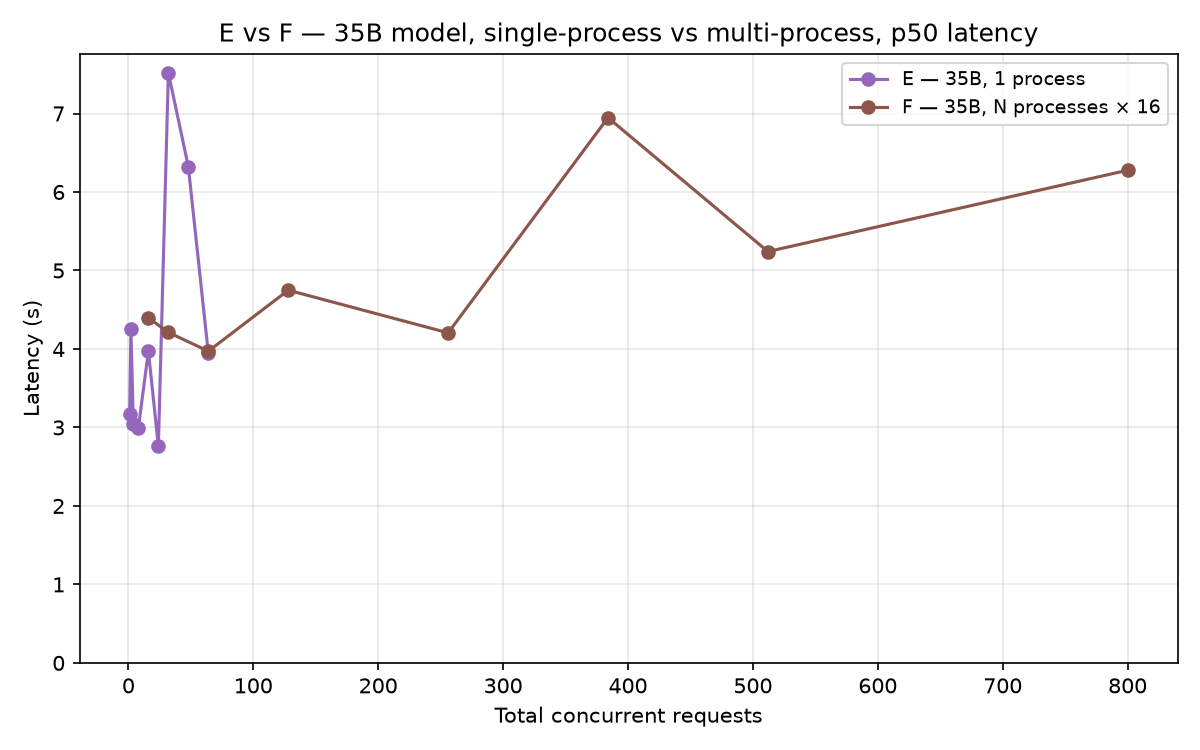
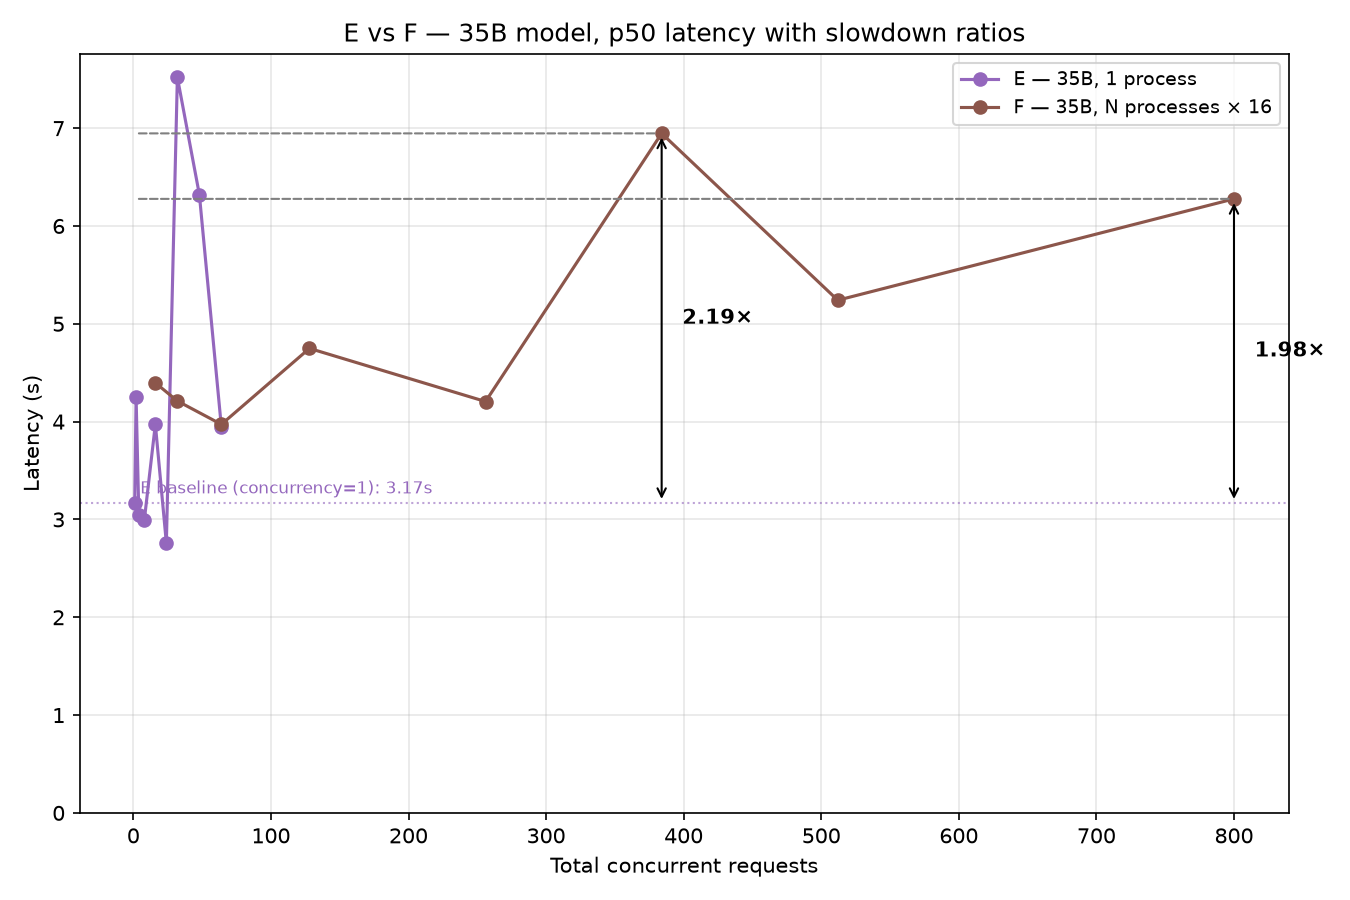
Improve graphs with x times

diff --git a/load-test-730/plot_all.py b/load-test-730/plot_all.py
@@ -139,6 +139,104 @@ def main():
     for lines, metric, filename, title in plots:
         save_plot(lines, metric, filename, title)
 
+    # ── EF p50: annotate slowdown ratios from E concurrency=1 ───────────────
+    e_baseline_x = 1   # concurrency=1, 1 process → total concurrent = 1
+    e_baseline_p50 = next(r["p50_latency_s"] for r in e if r["concurrency"] == 1)
+
+    f_50proc  = next(r for r in f if r["n_processes"] == 50)
+    f_24proc  = next(r for r in f if r["n_processes"] == 24)
+    f_50_x, f_50_p50 = f_50proc["n_processes"] * 16, f_50proc["p50_latency_s"]
+    f_24_x, f_24_p50 = f_24proc["n_processes"] * 16, f_24proc["p50_latency_s"]
+
+    fig, ax = plt.subplots(figsize=(9, 6))
+    xe, p50e, p95e = total_concurrent(e, 1)
+    xf, p50f, p95f = total_concurrent(f, 16)
+    ax.plot(xe, p50e, marker="o", label="E — 35B, 1 process", color="tab:purple")
+    ax.plot(xf, p50f, marker="o", label="F — 35B, N processes × 16", color="tab:brown")
+
+    for f_x, f_p50 in [(f_24_x, f_24_p50), (f_50_x, f_50_p50)]:
+        ratio = f_p50 / e_baseline_p50
+        # Horizontal dashed line from baseline up to the F point's height
+        ax.annotate(
+            "",
+            xy=(f_x, f_p50),
+            xytext=(e_baseline_x, f_p50),
+            arrowprops=dict(arrowstyle="-", linestyle="dashed", color="gray"),
+        )
+        # Vertical line from E baseline to F p50 height at F's x
+        ax.annotate(
+            "",
+            xy=(f_x, f_p50),
+            xytext=(f_x, e_baseline_p50),
+            arrowprops=dict(arrowstyle="<->", color="black"),
+        )
+        # Label the ratio
+        ax.text(
+            f_x + 15, (e_baseline_p50 + f_p50) / 2,
+            f"{ratio:.2f}×",
+            va="center", fontsize=10, fontweight="bold", color="black",
+        )
+
+    # Horizontal baseline reference line
+    ax.axhline(e_baseline_p50, color="tab:purple", linestyle=":", linewidth=1, alpha=0.6)
+    ax.text(5, e_baseline_p50 + 0.1, f"E baseline (concurrency=1): {e_baseline_p50:.2f}s",
+            fontsize=8, color="tab:purple")
+
+    ax.set_title("E vs F — 35B model, p50 latency with slowdown ratios")
+    ax.set_xlabel("Total concurrent requests")
+    ax.set_ylabel("Latency (s)")
+    ax.legend(fontsize=9)
+    ax.grid(alpha=0.3)
+    ax.set_ylim(0)
+    fig.tight_layout()
+    fig.savefig("plot_ef_p50.png", dpi=150)
+    plt.close(fig)
+    print("Rewrote plot_ef_p50.png")
+
+    # ── EF p95: annotate slowdown ratios from E concurrency=1 ───────────────
+    e_baseline_p95 = next(r["p95_latency_s"] for r in e if r["concurrency"] == 1)
+    f_50_p95 = f_50proc["p95_latency_s"]
+    f_24_p95 = f_24proc["p95_latency_s"]
+
+    fig, ax = plt.subplots(figsize=(9, 6))
+    ax.plot(xe, p95e, marker="o", label="E — 35B, 1 process", color="tab:purple")
+    ax.plot(xf, p95f, marker="o", label="F — 35B, N processes × 16", color="tab:brown")
+
+    for f_x, f_p95 in [(f_24_x, f_24_p95), (f_50_x, f_50_p95)]:
+        ratio = f_p95 / e_baseline_p95
+        ax.annotate(
+            "",
+            xy=(f_x, f_p95),
+            xytext=(e_baseline_x, f_p95),
+            arrowprops=dict(arrowstyle="-", linestyle="dashed", color="gray"),
+        )
+        ax.annotate(
+            "",
+            xy=(f_x, f_p95),
+            xytext=(f_x, e_baseline_p95),
+            arrowprops=dict(arrowstyle="<->", color="black"),
+        )
+        ax.text(
+            f_x + 15, (e_baseline_p95 + f_p95) / 2,
+            f"{ratio:.2f}×",
+            va="center", fontsize=10, fontweight="bold", color="black",
+        )
+
+    ax.axhline(e_baseline_p95, color="tab:purple", linestyle=":", linewidth=1, alpha=0.6)
+    ax.text(5, e_baseline_p95 + 0.2, f"E baseline (concurrency=1): {e_baseline_p95:.2f}s",
+            fontsize=8, color="tab:purple")
+
+    ax.set_title("E vs F — 35B model, p95 latency with slowdown ratios")
+    ax.set_xlabel("Total concurrent requests")
+    ax.set_ylabel("Latency (s)")
+    ax.legend(fontsize=9)
+    ax.grid(alpha=0.3)
+    ax.set_ylim(0)
+    fig.tight_layout()
+    fig.savefig("plot_ef_p95.png", dpi=150)
+    plt.close(fig)
+    print("Rewrote plot_ef_p95.png")
+
 
 if __name__ == "__main__":
     main()

diff --git a/load-test-730/README.md b/load-test-730/README.md
@@ -175,7 +175,7 @@ Result:
 - even at concurrency=1, p50 is already 3.2s — more than 2x the 4B baseline (i.e. Experiment C)
 - the backend is near capacity for this model under light load
 - p95 swings wildly (8–14s), indicating scheduling is not deterministic at this model size
-- **Throughput plateaus at ~4 req/s regardless of how many concurrent requests are sent**, implying a hard backend compute ceiling for this model
+- **throughput plateaus at ~4 req/s regardless of how many concurrent requests are sent**, implying a hard backend compute ceiling for this model
 
 ![C vs E p50](plot_ce_p50.png)
 